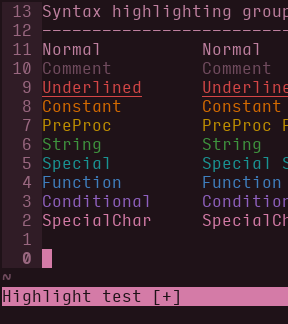
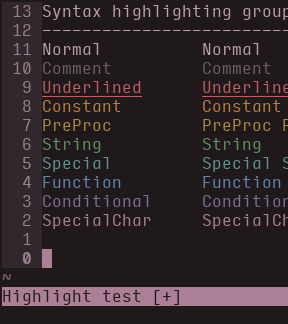
overhaul

diff --git a/transmogrify.md b/transmogrify.md
@@ -9,29 +9,29 @@
 4s/\.sh// |
 %s/base16-default/princess/ |
 
-%s/181818/1f1218/ |
-%s/282828/301c26/ |
-%s/383838/523744/ |
-%s/585858/704b5e/ |
-%s/b8b8b8/996780/ |
-%s/d8d8d8/bf80a0/ |
-%s/e8e8e8/e8aecb/ |
-%s/f8f8f8/ffd4e9/ |
+%s/181818/1f191c/ |
+%s/282828/30282c/ |
+%s/383838/52444b/ |
+%s/585858/705d67/ |
+%s/b8b8b8/997f8c/ |
+%s/d8d8d8/bf9faf/ |
+%s/e8e8e8/e8c1d4/ |
+%s/f8f8f8/ffebf5/ |
 
-%s/ab4642/d44646/ |
-%s/dc9656/d46a00/ |
-%s/f7ca88/bf8f00/ |
-%s/a1b56c/3e943e/ |
-%s/86c1b9/199494/ |
-%s/7cafc2/3f7fbf/ |
-%s/ba8baf/8f60bf/ |
-%s/a16946/d47ba7/ |
+%s/ab4642/bf6060/ |
+%s/dc9656/bf7f3f/ |
+%s/f7ca88/ab8e38/ |
+%s/a1b56c/639463/ |
+%s/86c1b9/639494/ |
+%s/7cafc2/6387ab/ |
+%s/ba8baf/816f94/ |
+%s/a16946/ab8096/ |
 
 %s/Character",    s:gui08, "", s:cterm08/Character",    s:gui0F, "", s:cterm0F/ |
 %s/Cursor",        s:gui00, s:gui05, s:cterm00, s:cterm05/Cursor",        s:gui00, s:gui0F, s:cterm00, s:cterm0F/ |
 %s/Identifier",   s:gui08, "", s:cterm08, "", "none/Identifier",   s:gui0F, "", s:cterm0F, "", "bold/ |
 %s/LineNr",        s:gui03, s:gui01, s:cterm03/LineNr",        s:gui04, s:gui01, s:cterm04/ |
-%s/Search",        s:gui03, s:gui0A, s:cterm03, s:cterm0A/Search",        s:gui00, s:gui0A, s:cterm00, s:cterm0A/ |
+%s/Search",        s:gui03, s:gui0A, s:cterm03, s:cterm0A/Search",        s:gui00, s:gui09, s:cterm00, s:cterm09/ |
 %s/statusline",    s:gui04, s:gui02, s:cterm04, s:cterm02/statusline",    s:gui00, s:gui0F, s:cterm00, s:cterm0F/ |
 %s/StatusLineNC",  s:gui03, s:gui01, s:cterm03, s:cterm01/StatusLineNC",  s:gui05, s:gui01, s:cterm05, s:cterm01/ |
 %s/Visual",        "", s:gui02, "", s:cterm02/Visual",        s:gui06, s:gui02, s:cterm06, s:cterm02/ |
@@ -49,28 +49,28 @@ normal =gg
 ```
 2,4d |
 
-%s#18/18/18#1f/12/18# |
-%s#28/28/28#30/1c/26# |
-%s#38/38/38#52/37/44# |
-%s#58/58/58#70/4b/5e# |
-%s#b8/b8/b8#99/67/80# |
-%s#d8/d8/d8#bf/80/a0# |
-%s#e8/e8/e8#e8/ae/cb# |
-%s#f8/f8/f8#ff/d4/e9# |
-%s#ab/46/42#d4/46/46# |
-%s#dc/96/56#d4/6a/00# |
-%s#f7/ca/88#bf/8f/00# |
-%s#a1/b5/6c#3e/94/3e# |
-%s#86/c1/b9#19/94/94# |
-%s#7c/af/c2#3f/7f/bf# |
-%s#ba/8b/af#8f/60/bf# |
-%s#a1/69/46#d4/7b/a7# |
+%s#18/18/18#1f/19/1c# |
+%s#28/28/28#30/28/2c# |
+%s#38/38/38#52/44/4b# |
+%s#58/58/58#70/5d/67# |
+%s#b8/b8/b8#99/7f/8c# |
+%s#d8/d8/d8#bf/9f/af# |
+%s#e8/e8/e8#e8/c1/d4# |
+%s#f8/f8/f8#ff/eb/f5# |
+%s#ab/46/42#bf/60/60# |
+%s#dc/96/56#bf/7f/3f# |
+%s#f7/ca/88#ab/8e/38# |
+%s#a1/b5/6c#63/94/63# |
+%s#86/c1/b9#63/94/94# |
+%s#7c/af/c2#63/87/ab# |
+%s#ba/8b/af#81/6f/94# |
+%s#a1/69/46#ab/80/96# |
 
-%s/181818/1f1218/ge |
-%s/383838/523744/g |
-%s/d8d8d8/bf80a0/g |
-%s/f8f8f8/ffd4e9/ge |
+%s/181818/1f191c/ge |
+%s/383838/52444b/g |
+%s/d8d8d8/bf9faf/g |
+%s/f8f8f8/ffebf5/ge |
 
 call append(123,["",
-"echo -ne '\\e]12;#d47ba7\\a'"])
+"echo -ne '\\e]12;#ab8096\\a'"])
 ```
